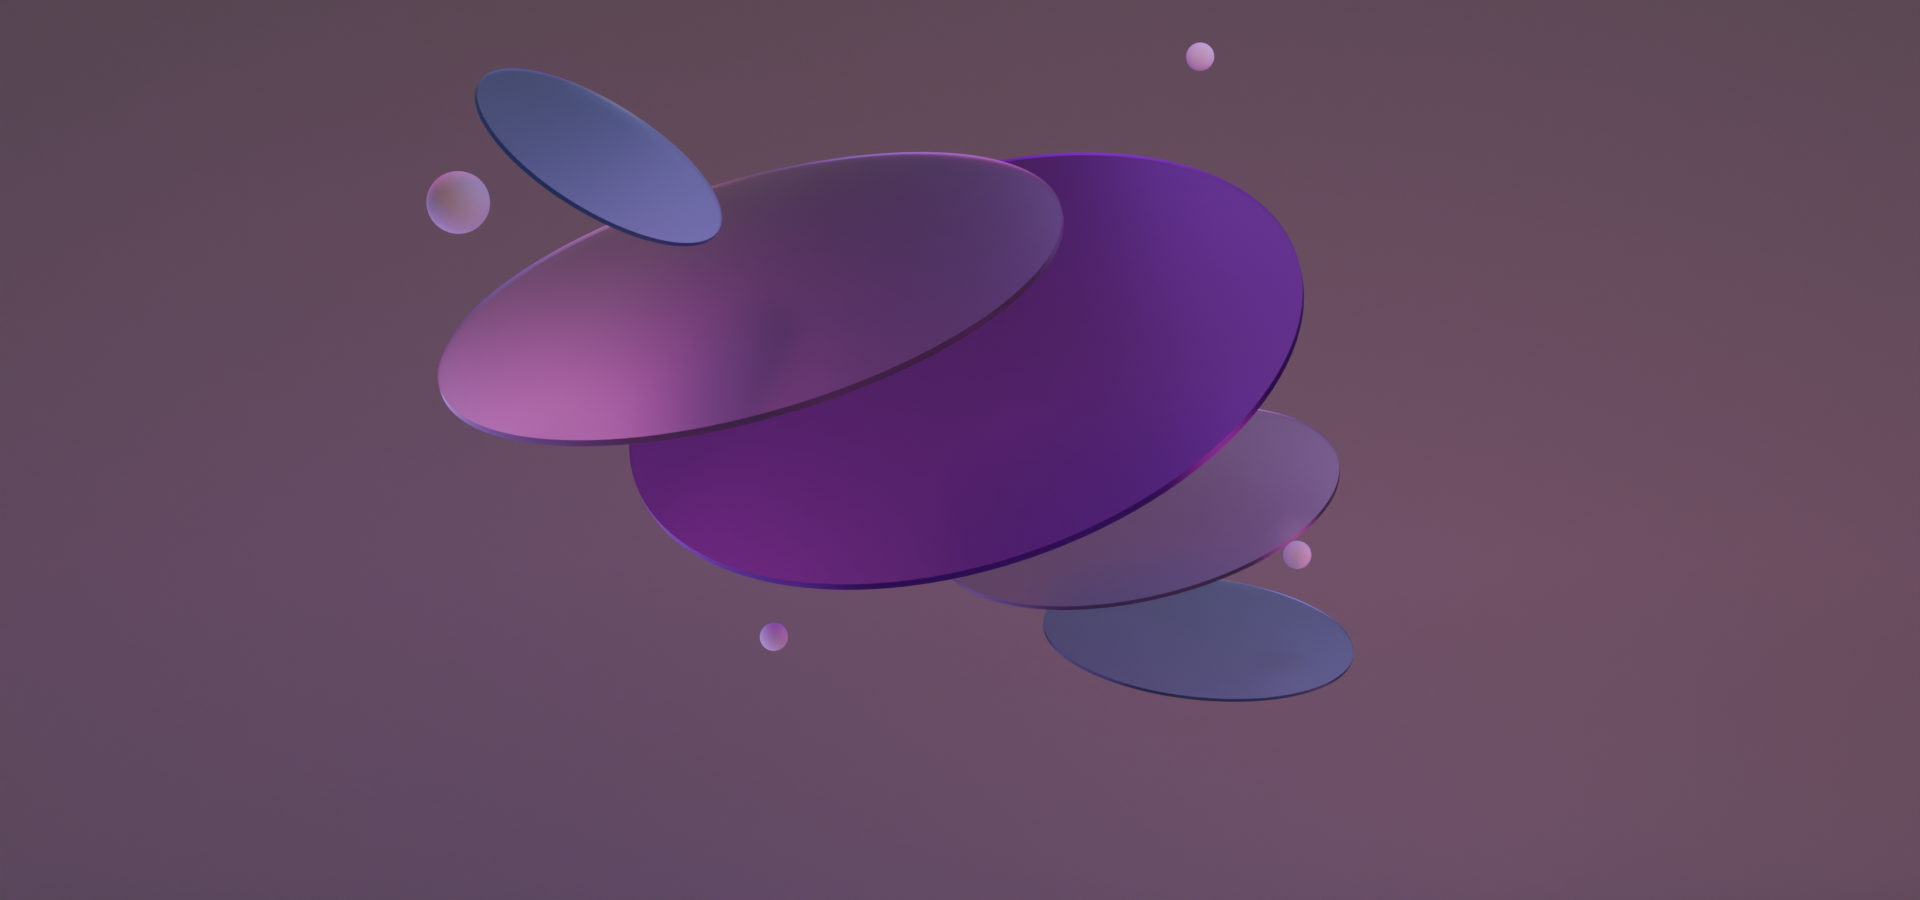
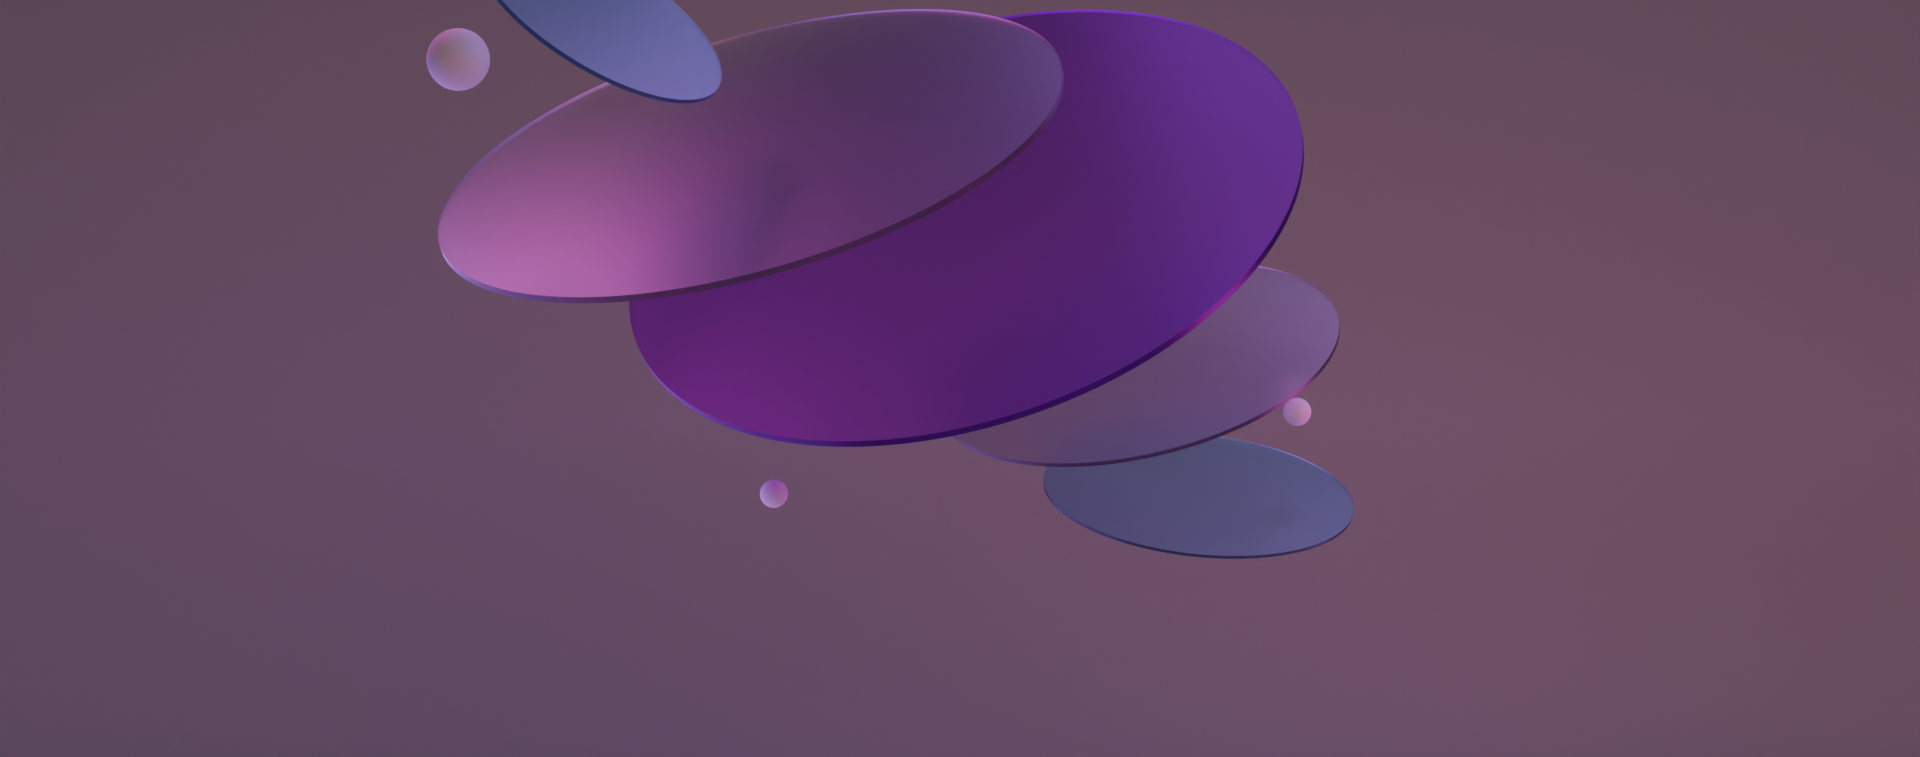
api

diff --git a/src/App.tsx b/src/App.tsx
@@ -1,10 +1,77 @@
 import './App.css'
-import nick from "./assets/nichol.png"
+import { GITHUB_RAW_CONTENT_URL, InstalledExtension, RemoteExtension, getInstalledAddonList, getManifest, listRemoteAddons } from './api'
 import bouncy from "./assets/bouncy.png"
 import wifi from "./assets/wifistats.png"
 import Extension from './components/Extension'
+import { Divider, Paper, Typography } from '@mui/material'
+import { useEffect, useState } from 'react'
+
+
+
+function ExtensionGroup({list, installed, reloadInstalled}: {list: RemoteExtension[], installed: InstalledExtension[], reloadInstalled: () => void}) {
+  return (<Paper sx={{paddingTop: 4, paddingBottom: 4, marginBottom: 15, width: '100%'}} elevation={3}>
+    <div style={{textAlign:'left', paddingLeft: 30}}>
+      <Typography variant={'h4'} fontWeight={700} color={'#022f40'} sx={{marginBottom: 0.2}}>Most Popular</Typography>
+      <Divider sx={{width: '25%', marginBottom: 2}}/>
+    </div>
+    <div className='row'>
+      {list.map(i => {
+        if (i == undefined) {
+          return (<></>)
+        }
+
+        let local;
+        
+        if(installed) {
+          local = installed.find(inst => inst.identifier == i.identifier);
+        }        
+
+        return (<Extension 
+          image={GITHUB_RAW_CONTENT_URL + i.identifier + "/icon.png"}
+          name={i.name}
+          identifier={i.identifier}
+          description={i.description}
+          version={i.version}
+          installedVersion={local ? local.version : undefined}
+          reloadInstalled={reloadInstalled}
+        />)
+      })}
+    </div>
+  </Paper>)
+}
 
 function App() {
+
+  const [installed, setInstalled] = useState<InstalledExtension[]>([]);
+  const [popular, setPopular] = useState<string[]>([]);
+  const [allIdents, setAllIdents] = useState<string[]>([]);
+  const [all, setAll] = useState<RemoteExtension[]>([])
+
+  useEffect(() => {
+    reloadInstalled()
+
+    listRemoteAddons().then(l => {
+      setAllIdents(l);
+    })
+
+    setPopular(['clock', 'bouncy'])
+  }, [])
+
+  function reloadInstalled() {
+    getInstalledAddonList().then((i) => {
+      setInstalled(i);
+    });
+  }
+
+  useEffect(() => {
+    const promises = allIdents.map(l => getManifest(l));
+
+    Promise.all(promises).then(ps => {
+      console.log(ps)
+      setAll(ps);
+    });
+  }, [all])
+
 
   return (
     <>
@@ -14,30 +81,29 @@ function App() {
             Installed Extensions:
 
             <ul>
-              <li>Bouncy</li>
+              {installed.map(i => {
+                const mapped = all.find(a => a.identifier === i.identifier)
+
+                if(mapped) {
+                  return (<li style={{display:'flex', justifyContent: 'center', alignItems: 'center'}}>
+                    {mapped.name}
+                    <img src={GITHUB_RAW_CONTENT_URL + i.identifier + "/icon.png"} style={{width: 25, aspectRatio: '1/1', marginLeft: '10px', borderRadius: '25px'}}/>
+                  </li>)
+                }
+                
+                return (<li>{i.identifier}</li>)
+              })}
             </ul>
           </div>
         </div>
         <div className='content'>
           <div className="banner">
-            The Cumulo Market
+            <span>The Cumulo Market</span>
           </div>
-          <div className='row'>
-            <Extension
-              image={bouncy}
-              name='Bouncy'
-              identifier='bouncy'
-              description='The first ever extension developed for cirrus'
-              version='v1.1.0'
-              installedVersion='v1.1.0'
-            />
-            <Extension
-              image={wifi}
-              name='WifiStats'
-              identifier='wifistats'
-              description='This gets average wifi statistics for your current connection'
-              version='v1.0.1'
-            />
+          <div style={{width: '100%', display: 'flex', justifyContent: 'center'}}>
+            <div style={{width: '95%', display: 'flex', justifyContent: 'center', flexDirection: 'column'}}>
+              <ExtensionGroup list={popular.map(p => all.find(a => a.identifier == p)) as RemoteExtension[]} installed={installed} reloadInstalled={reloadInstalled}/>
+            </div>
           </div>
         </div>
       </div>

diff --git a/src/components/Extension.tsx b/src/components/Extension.tsx
@@ -3,6 +3,7 @@ import DownloadIcon from '@mui/icons-material/Download';
 import { motion } from "framer-motion";
 import InstallDesktopIcon from '@mui/icons-material/InstallDesktop';
 import CloudIcon from '@mui/icons-material/Cloud';
+import CloudDownloadIcon from '@mui/icons-material/CloudDownload';
 
 type ExtensionProps = {
     image: string,
@@ -10,12 +11,23 @@ type ExtensionProps = {
     version: string, 
     description: string,
     identifier: string,
-    installedVersion?: string
+    installedVersion?: string,
+    reloadInstalled: () => void
 }
 
 function Extension(props: ExtensionProps) {
     
     const iconsx = {marginLeft: '5px !important', marginRight: '0px !important'};
+    const isAlreadyInstalled = props.installedVersion ? true : false;
+    const isDownloadable = (isAlreadyInstalled && props.installedVersion !== props.version) || !isAlreadyInstalled;
+
+    function dl() {
+        window.location.href = `cirrus://${props.identifier}`
+
+        setTimeout(() => {
+            props.reloadInstalled();
+        }, 5000)
+    }
 
     return (
         <motion.div
@@ -52,7 +64,7 @@ function Extension(props: ExtensionProps) {
                 >
                     <div>
                         <img src={props.image} className='productimage'/>
-                        <Typography variant={'h4'} fontFamily={'K2D'} fontWeight={700} color={'#022f40'} sx={{marginBottom:1}}>{props.name}</Typography>
+                        <Typography variant={'h4'}fontWeight={700} color={'#022f40'} sx={{marginBottom:1}}>{props.name}</Typography>
                         <div>
                             <Chip icon={<CloudIcon sx={iconsx}/>} label={props.version} color={"primary"} size="small"/>
                             { props.installedVersion &&
@@ -61,7 +73,13 @@ function Extension(props: ExtensionProps) {
                         </div>
                         <br/>
                         <p style={{margin: 0}}>{props.description}</p>
-                        <Button disabled={(props.installedVersion && props.installedVersion === props.version) ? true : false} variant="contained" sx={{marginTop: 4}} onClick={() => window.location.href = `cirrus://${props.identifier}`}>Download<DownloadIcon/></Button>
+                        <Button disabled={!isDownloadable} variant="contained" sx={{marginTop: 4}} onClick={dl}>
+                            {isAlreadyInstalled && isDownloadable ?
+                                <><span>Update</span><CloudDownloadIcon sx={{marginLeft: 1}}/></> :
+                                <><span>Download</span><DownloadIcon/></>
+                            }
+                            
+                        </Button>
                     </div>
                 </Paper>
             </motion.div>

diff --git a/src/api.ts b/src/api.ts
@@ -1,0 +1,58 @@
+import axios from 'axios';
+
+export interface InstalledExtension {
+    identifier: string,
+    version: string
+}
+  
+export interface RemoteExtension extends InstalledExtension {
+    name: string,
+    description: string,
+}
+
+export async function getInstalledAddonList(): Promise<InstalledExtension[]> {
+    return (await (await fetch("http://localhost:64733/addonList")).json()).addons;
+}
+
+const GITHUB_REPO_API_URL = 'https://api.github.com/repos/Rubyboat1207/cumulohost/contents/';
+export const GITHUB_RAW_CONTENT_URL = 'https://raw.githubusercontent.com/Rubyboat1207/cumulohost/main/';
+
+function fetchGitHubContent(path: string = ''): Promise<any> {
+  // Fetch new data and update cache
+  return axios.get(`${GITHUB_REPO_API_URL}${path}?${Math.random()}`)
+    .then(response => {
+      localStorage.setItem(path, JSON.stringify(response.data));
+      return response.data;
+    })
+    .catch(error => {
+      console.error('Error fetching GitHub content:', error);
+      throw error;
+    });
+}
+
+function fetchRawGitHubContent(path: string = ''): Promise<any> {
+    // Fetch new data and update cache
+    return axios.get(`${GITHUB_RAW_CONTENT_URL}${path}?${Math.random()}`)
+      .then(response => {
+        localStorage.setItem(path, JSON.stringify(response.data));
+        return response.data;
+      })
+      .catch(error => {
+        console.error('Error fetching GitHub raw content:', error);
+        throw error;
+      });
+  }
+  
+
+export function listRemoteAddons(): Promise<string[]> {
+  return fetchGitHubContent()
+    .then(rootContents => 
+      rootContents
+        .filter((item: any) => item.type === 'dir')
+        .map((dir: any) => dir.name)
+    );
+}
+
+export function getManifest(addon: string): Promise<any> {
+    return fetchRawGitHubContent(`${addon}/manifest.json`);
+  }

diff --git a/src/index.css b/src/index.css
@@ -20,7 +20,7 @@
 
 .sidenav {
   width: 10%;
-  display: sticky;
+  position: sticky;
   top: 0px;
   left: 0px;
   height: 100vh;
@@ -57,18 +57,23 @@ body {
 
 
 .banner {
-  height: 400px;
-  background-image: url("./colors.png");
-  background-position: fixed;
-  background-size: cover;
-  background-attachment: scroll;
+  height: 250px;
+  background: url("./colors.png") no-repeat;
+  background-attachment: fixed;
+  background-position: center center;
+  background-size: cover; 
   margin-bottom: 25px;
   font-weight: 800;
   justify-content: center;
   align-items: center;
   display: flex;
-  font-size: 48px;
+  font-size: 6em;
   letter-spacing: 3px;
+  box-shadow: inset 0 -10px 15px #00000044;
+}
+
+.banner>span {
+  filter: drop-shadow(0 5px 2px #00000044);
 }
 
 .row {

diff --git a/src/main.tsx b/src/main.tsx
@@ -3,6 +3,7 @@ import ReactDOM from 'react-dom/client'
 import { createBrowserRouter, RouterProvider } from 'react-router-dom'
 import App from './App.tsx'
 import './index.css'
+import { createTheme, ThemeProvider } from '@mui/material'
 
 const routes = createBrowserRouter([
   {
@@ -11,8 +12,16 @@ const routes = createBrowserRouter([
   }
 ])
 
+const theme = createTheme({
+  typography: {
+    fontFamily: 'K2D'
+  }
+})
+
 ReactDOM.createRoot(document.getElementById('root')!).render(
   <React.StrictMode>
-    <RouterProvider router={routes} />
+    <ThemeProvider theme={theme}>
+      <RouterProvider router={routes} />
+    </ThemeProvider>
   </React.StrictMode>,
 )
